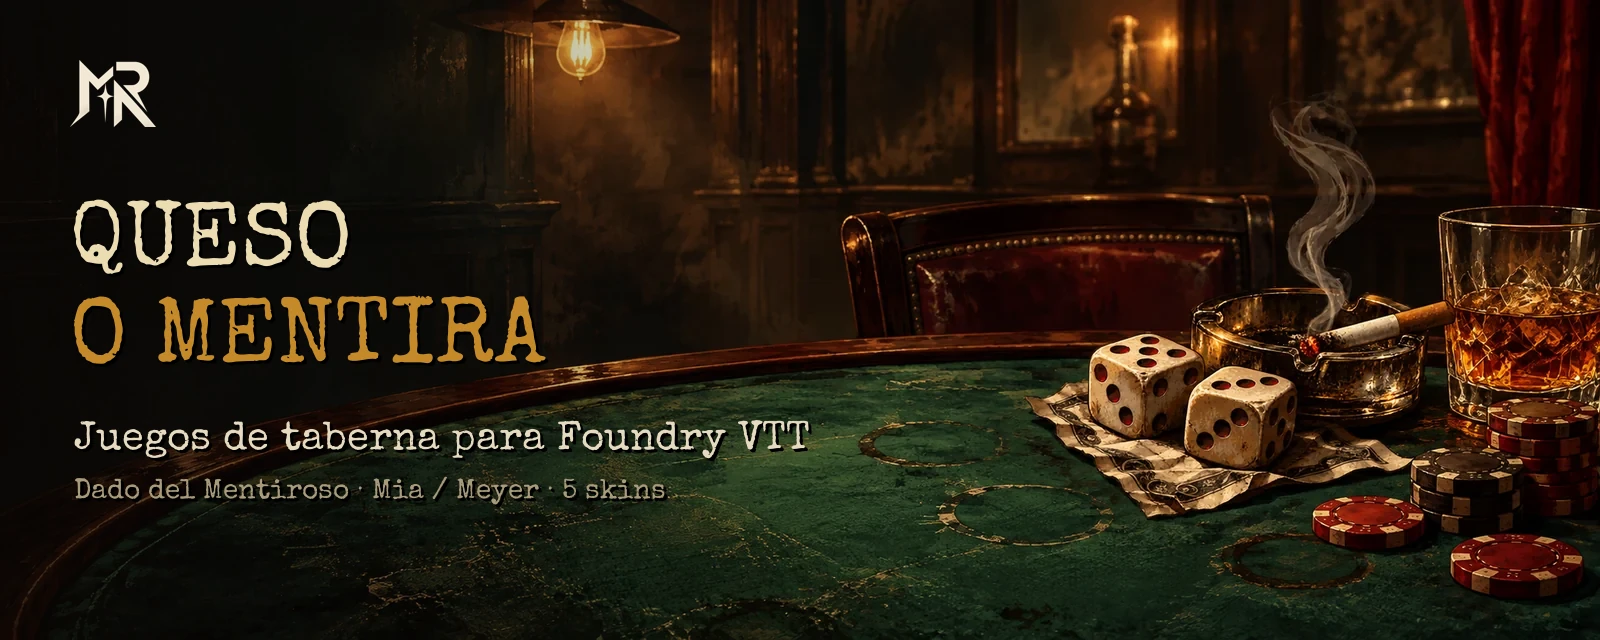
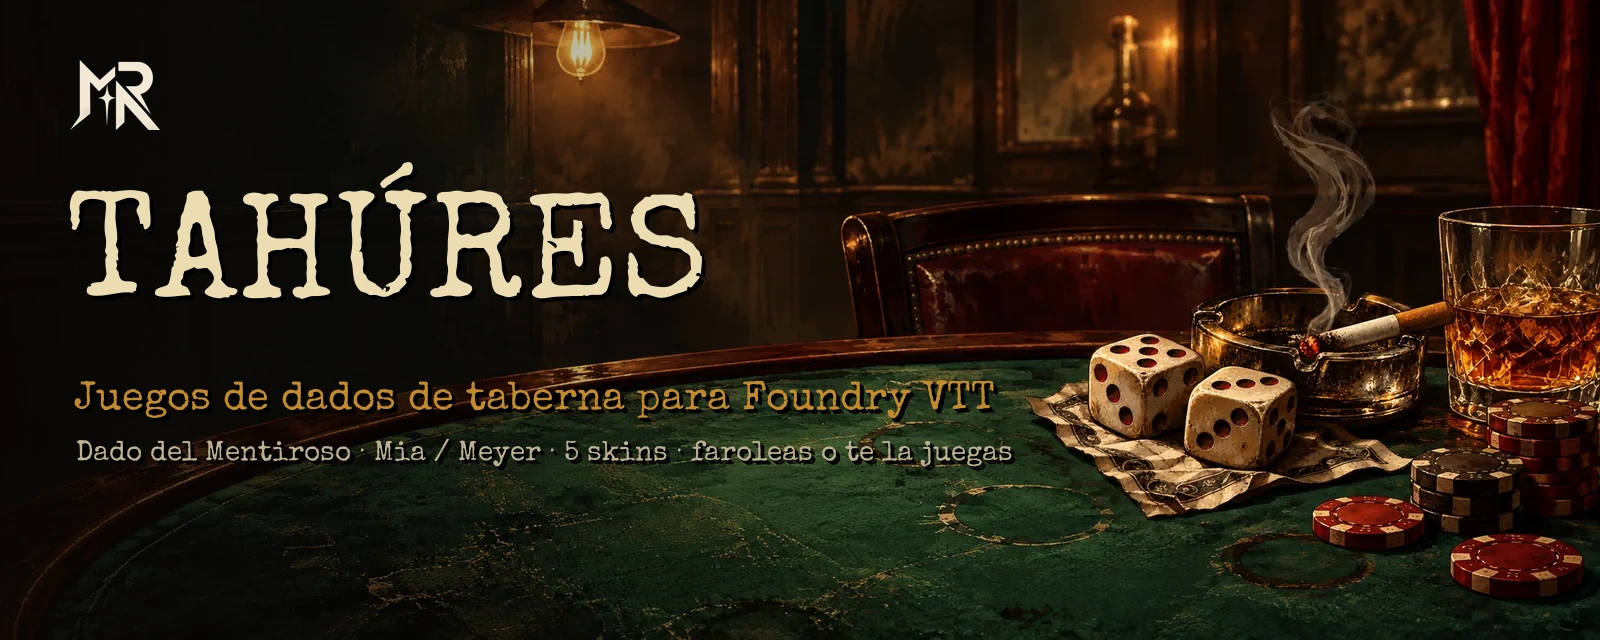
Renombrado a MR- Tahúres (id mr-tahures)
El módulo pasa de «Queso o Mentira» a «Tahúres»: id, repositorio, textos, banner,
web de Pages, icono de la barra de controles y títulos de ventana.

Changed region(s): [[0.0312, 0.25, 0.6562, 0.7812], [0.0625, 0.0938, 0.0938, 0.2188]]

diff --git a/docs/index.html b/docs/index.html
@@ -3,11 +3,11 @@
 <head>
 <meta charset="utf-8">
 <meta name="viewport" content="width=device-width, initial-scale=1">
-<title>MR- Queso o Mentira</title>
+<title>MR- Tahúres</title>
 <meta name="description" content="Juegos de taberna para Foundry VTT: Dado del Mentiroso y Mia/Meyer, con cinco skins. Agnóstico de sistema.">
-<meta property="og:title" content="MR- Queso o Mentira">
+<meta property="og:title" content="MR- Tahúres">
 <meta property="og:description" content="Faroleas, dudas y te juegas el bote. Juegos de taberna para Foundry VTT.">
-<meta property="og:image" content="https://manuromera.github.io/mr-queso-o-mentira/img/banner.webp">
+<meta property="og:image" content="https://manuromera.github.io/mr-tahures/img/banner.webp">
 <style>
   :root { --bg:#120d0a; --panel:#1c140f; --line:#4d3a2a; --fg:#e6dac0; --dim:#a99b7c; --accent:#c58a2b; --accent2:#e0ac4e; }
   * { box-sizing: border-box; }
@@ -36,17 +36,17 @@
 </style>
 </head>
 <body>
-<header><img class="banner" src="img/banner.webp" alt="MR- Queso o Mentira"></header>
+<header><img class="banner" src="img/banner.webp" alt="MR- Tahúres"></header>
 <main>
   <p class="lead">Faroleas, dudas y te juegas el bote.<br>Juegos de taberna para tu mesa de Foundry, vestidos de la ambientación que toque.</p>
   <div class="cta">
-    <a class="btn" href="https://github.com/ManuRomera/mr-queso-o-mentira/releases/latest">Descargar</a>
-    <a class="btn alt" href="https://github.com/ManuRomera/mr-queso-o-mentira">Código en GitHub</a>
+    <a class="btn" href="https://github.com/ManuRomera/mr-tahures/releases/latest">Descargar</a>
+    <a class="btn alt" href="https://github.com/ManuRomera/mr-tahures">Código en GitHub</a>
   </div>
 
   <h2>Instalar</h2>
   <p>En Foundry: <b>Add-on Modules → Install Module → Manifest URL</b>.</p>
-  <pre>https://github.com/ManuRomera/mr-queso-o-mentira/releases/latest/download/module.json</pre>
+  <pre>https://github.com/ManuRomera/mr-tahures/releases/latest/download/module.json</pre>
 
   <h2>Los juegos</h2>
   <div class="cards">

diff --git a/scripts/mr-tahures.js b/scripts/mr-tahures.js
@@ -1,6 +1,6 @@
 /****************************************************
- * Queso o Mentira – v2.2.0 (juegos de taberna)
- * • Registro de juegos (core.js + games/*): Dado del Mentiroso y Mia/Meyer. API: game.modules.get("mr-queso-o-mentira").api
+ * MR- Tahúres – v3.0.0 (juegos de dados de taberna)
+ * • Registro de juegos (core.js + games/*): Dado del Mentiroso y Mia/Meyer. API: game.modules.get("mr-tahures").api
  * • v2.1: calzar/palifico clásicos, IA con personalidad, bote con dinero.
  * • v2.0: ApplicationV2, manos privadas por socket dirigido, revelación en el chat, V13/V14.
  ****************************************************/
@@ -145,7 +145,7 @@ class GMDiceTrayApp extends HandlebarsApplicationMixin(ApplicationV2) {
 // 2. MÓDULO
 // ===================================================================================
 
-class QuesoMentira {
+class Tahures {
   static openApps = {};
 
   static initialize() {
@@ -261,4 +261,4 @@ class QuesoMentira {
   }
 }
 
-Hooks.once("setup", () => QuesoMentira.initialize());
+Hooks.once("setup", () => Tahures.initialize());

diff --git a/scripts/core.js b/scripts/core.js
@@ -2,7 +2,7 @@
 // Un juego es un objeto registrado con registerGame() (ver games/*.js y docs/JUEGOS.md).
 import * as Engine from "./engine/liars-dice.js";
 
-export const ID = "mr-queso-o-mentira";
+export const ID = "mr-tahures";
 export const SOCKET = `module.${ID}`;
 export const DEFAULT_GAME = "liars-dice";
 export const OWNER = () => CONST.DOCUMENT_OWNERSHIP_LEVELS.OWNER;
@@ -29,7 +29,7 @@ export const GAMES = new Map();
 export const registerGame = def => { GAMES.set(def.id, def); return def; };
 export const gameOf = S => GAMES.get(S?.game ?? DEFAULT_GAME);
 
-/** Puente con las ventanas (lo rellena mr-queso-o-mentira.js). */
+/** Puente con las ventanas (lo rellena mr-tahures.js). */
 export const bridge = { refresh() {}, openGMTray() {}, openTray() {} };
 
 /** Lo que ESTE cliente puede ver: { own: {actorId: dados}, all: {actorId: dados} | null } */

diff --git a/styles/mr-tahures.css b/styles/mr-tahures.css
@@ -1,4 +1,4 @@
-/* Queso o Mentira · diseño por skins.
+/* MR- Tahúres · diseño por skins.
    Cada skin es un bloque de variables sobre body[data-qm-skin]; el resto del archivo solo usa variables.
    Para una skin nueva: otro bloque de variables (y su carpeta de arte en assets/skins/<id>/). */
 

diff --git a/docs/arte/gen_skins_css.py b/docs/arte/gen_skins_css.py
@@ -3,7 +3,7 @@
 
 Ejecutar:  python3 docs/arte/gen_skins_css.py
 Para una skin nueva: carpeta assets/skins/<id>/ con la estructura del encargo (docs/arte/LEEME.md),
-una entrada en SKINS de aquí y otra de colores en styles/mr-queso-o-mentira.css.
+una entrada en SKINS de aquí y otra de colores en styles/mr-tahures.css.
 Los parches de arte que sustituyen archivos con el mismo nombre NO requieren regenerar nada.
 """
 from pathlib import Path

diff --git a/docs/arte/generar.py b/docs/arte/generar.py
@@ -1,5 +1,5 @@
 #!/usr/bin/env python3
-"""Fuente única del encargo de arte de «Queso o Mentira», por skins.
+"""Fuente única del encargo de arte de «Tahúres», por skins.
 
 Ejecutar:  python3 docs/arte/generar.py
 Escribe, para cada skin, en docs/arte/<skin>/:

diff --git a/docs/PLAN.md b/docs/PLAN.md
@@ -1,4 +1,4 @@
-# Queso o Mentira — Plan de mejora
+# Tahúres — Plan de mejora
 
 Estado de partida (oct 2026): la copia local es **v1.6.1** (con jugadores «tramposos» y botón de vista GM); GitHub sigue en **v1.3.1**; `module.json` dice **0.7.0**. Un solo script de ~820 líneas, ventanas V1 (`Application`/`FormApplication`), compat declarada V11–V12.
 
@@ -12,7 +12,7 @@ Objetivo: que lo que hay sea correcto, seguro y mantenible antes de añadir nada
 
 1. **Motor de reglas puro** (`scripts/engine/liars-dice.js`, sin dependencias de Foundry): recuento con comodines, validación de apuestas, resolución de «¡Mentira!» y «Calzar», pérdida de dados/eliminación, siguiente turno, probabilidad binomial y decisión de las tres IA.
 2. **Tests** con `node --test` (`tests/engine.test.mjs`), sin dependencias.
-3. **El módulo usa el motor**: `queso-mentira.js` deja de tener la lógica duplicada.
+3. **El módulo usa el motor**: `mr-tahures.js` deja de tener la lógica duplicada.
 4. **Validación en el GM** de cada acción de jugador: solo actúa quien es dueño del actor al que le toca, y solo el GM activo procesa (hoy, con dos GM conectados, todo se ejecuta dos veces; y cualquier cliente puede enviar `callerIx` arbitrario).
 5. **Higiene del repo**: `module.json` a la versión real, `LICENSE` (el README lo cita y no existe), `.gitignore`, `package.json` mínimo, quitar el `.zip` del repo (lo genera la release), README sin el enlace roto del manifiesto.
 6. **Sincronizar con GitHub**: la copia local manda; subir tras tu visto bueno.
@@ -47,11 +47,11 @@ Hecho y probado en Foundry 13.351: calzar y palifico clásicos como opción (sel
 
 ## Fase 4 — Plataforma multijuego (hecha en lo esencial, v2.2.0)
 
-Hecho y probado en Foundry 13.351: registro de juegos (`core.js`, `games/*`), selector de juego con opciones propias, API `game.modules.get("queso-mentira").api`, guía en `docs/JUEGOS.md`. **Pendiente:** hooks públicos (`queso-mentira.roundEnd`…), temas de mesa, registro desde módulos de terceros, macro de apertura.
+Hecho y probado en Foundry 13.351: registro de juegos (`core.js`, `games/*`), selector de juego con opciones propias, API `game.modules.get("mr-tahures").api`, guía en `docs/JUEGOS.md`. **Pendiente:** hooks públicos (`mr-tahures.roundEnd`…), temas de mesa, registro desde módulos de terceros, macro de apertura.
 
 
-- Registro de juegos (`QuesoMentira.registerGame({id, name, engine, ui})`) para que cada juego sea un motor puro + una vista.
-- API pública y hooks (`queso-mentira.roundEnd`, `queso-mentira.gameEnd`, `queso-mentira.bet`) para que los sistemas de Manu enganchen recompensas.
+- Registro de juegos (`Tahures.registerGame({id, name, engine, ui})`) para que cada juego sea un motor puro + una vista.
+- API pública y hooks (`mr-tahures.roundEnd`, `mr-tahures.gameEnd`, `mr-tahures.bet`) para que los sistemas de Manu enganchen recompensas.
 - Temas de mesa: pulp-militar (actual), taberna medieval, pirata, noir, cantina sci-fi.
 - Selector de juego en la barra de escenas; macro de apertura.
 
@@ -93,7 +93,7 @@ Todos reutilizan: sentarse a la mesa, turnos, bote, chat de revelación, sonidos
 
 ## Decisiones abiertas
 
-- **[D1]** Renombrar a **MR- Queso o Mentira** (id `mr-queso-o-mentira`)? Rompe instalaciones existentes. Recomendado: mantener el id `queso-mentira`, cambiar solo el título a «MR- Queso o Mentira».
+- **[D1] Resuelta:** el módulo se llama **MR- Tahúres** (id `mr-tahures`, antes «Queso o Mentira»).
 - **[D2]** Reglas por defecto: ¿mantener las de la casa actuales o pasar a las clásicas? Recomendado: mantener las actuales por defecto y ofrecer el selector (Fase 3).
 - **[D3]** ¿Un módulo con todos los juegos o módulos separados por juego? Recomendado: uno solo con registro de juegos.
 - **[D4]** Fecha tope de compat: V13 mínimo, V14 verificado. ¿Se abandona V11/V12?
@@ -102,5 +102,5 @@ Todos reutilizan: sentarse a la mesa, turnos, bote, chat de revelación, sonidos
 
 ## Estado visual (2026-10-17, v2.4.0)
 
-Cinco skins integradas con arte propio (`assets/skins/<skin>/`, 126 imágenes): garito, taberna, pirata, oeste, neón. CSS en `styles/queso-mentira.css` (variables por skin) y `styles/skins.css` (generado por `docs/arte/gen_skins_css.py`). Sin arte, cada skin cae al diseño CSS puro.
+Cinco skins integradas con arte propio (`assets/skins/<skin>/`, 126 imágenes): garito, taberna, pirata, oeste, neón. CSS en `styles/mr-tahures.css` (variables por skin) y `styles/skins.css` (generado por `docs/arte/gen_skins_css.py`). Sin arte, cada skin cae al diseño CSS puro.
 **Pendiente de arte:** parches A (3 texturas) y B (32 dados) en `docs/arte/parches/`; al llegar basta con sustituir los archivos del mismo nombre. **Hecho (v2.5.0):** 17 iconos SVG de un color (`assets/icons/`, generador `docs/arte/gen_iconos.py`, tintables con `currentColor`): 6 acciones, 3 jugadores y 8 emblemas de juego (los de Fase 5 ya están listos). **Pendiente de diseño:** dado oculto de rivales, banner del README, escena de mesa como acción del GM, tipografías propias.

diff --git a/README.md b/README.md
@@ -1,11 +1,11 @@
 <p align="center">
-  <img src="docs/img/banner.webp" alt="MR- Queso o Mentira — juegos de taberna para Foundry VTT" width="100%">
+  <img src="docs/img/banner.webp" alt="MR- Tahúres — juegos de taberna para Foundry VTT" width="100%">
 </p>
 
 <p align="center">
-  <a href="https://github.com/ManuRomera/mr-queso-o-mentira/releases/latest"><img alt="Latest release" src="https://img.shields.io/github/v/release/ManuRomera/mr-queso-o-mentira?style=for-the-badge&color=c58a2b&label=release"></a>
+  <a href="https://github.com/ManuRomera/mr-tahures/releases/latest"><img alt="Latest release" src="https://img.shields.io/github/v/release/ManuRomera/mr-tahures?style=for-the-badge&color=c58a2b&label=release"></a>
   <img alt="Foundry VTT v13" src="https://img.shields.io/badge/Foundry%20VTT-v13-57d8c8?style=for-the-badge">
-  <a href="https://github.com/ManuRomera/mr-queso-o-mentira/releases"><img alt="Downloads" src="https://raw.githubusercontent.com/ManuRomera/ManuRomera/main/badges/descargas/mr-queso-o-mentira.svg"></a>
+  <a href="https://github.com/ManuRomera/mr-tahures/releases"><img alt="Downloads" src="https://raw.githubusercontent.com/ManuRomera/ManuRomera/main/badges/descargas/mr-tahures.svg"></a>
   <img alt="System agnostic" src="https://img.shields.io/badge/system-agnostic-2b3245?style=for-the-badge">
   <a href="LICENSE"><img alt="MIT license" src="https://img.shields.io/badge/license-MIT-2b3245?style=for-the-badge"></a>
 </p>
@@ -21,10 +21,10 @@
 En Foundry: **Add-on Modules → Install Module → Manifest URL**, pega:
 
 ```
-https://github.com/ManuRomera/mr-queso-o-mentira/releases/latest/download/module.json
+https://github.com/ManuRomera/mr-tahures/releases/latest/download/module.json
 ```
 
-Activa **MR- Queso o Mentira** en tu mundo y abre la mesa desde el botón del queso en los **Controles de token** (solo el Director de Juego). Las actualizaciones llegan desde el botón *Update* de Foundry.
+Activa **MR- Tahúres** en tu mundo y abre la mesa desde el botón de los dados en los **Controles de token** (solo el Director de Juego). Las actualizaciones llegan desde el botón *Update* de Foundry.
 
 <p align="center">
   <img src="docs/img/hero.webp" alt="Partida de Dado del Mentiroso en El Garito: bandeja del Director con todas las manos, chat con la revelación y fichas de casino" width="100%">
@@ -70,7 +70,7 @@ El mismo juego, vestido para cada mesa. Se elige en el propio formulario de part
 
 ## 🕹 Cómo se juega
 
-1. **GM:** con los actores de la escena en tokens, pulsa el botón del queso (Controles de token).
+1. **GM:** con los actores de la escena en tokens, pulsa el botón de los dados (Controles de token).
 2. Elige **juego**, **skin** y el **modo** de cada actor: Humano, Director de Juego (tú) o una de las IAs. Ajusta dados o vidas iniciales, reglas y la entrada del bote.
 3. Se sortea quién empieza y cada humano recibe su **bandeja** con su mano; el GM ve todas.
 4. En tu turno: **Subir / ¡Mentira! / Calzar** en el Dado del Mentiroso, o **Anunciar / ¡Dudo! / Acepto y tiro** en Mia.
@@ -78,7 +78,7 @@ El mismo juego, vestido para cada mesa. Se elige en el propio formulario de part
 ## 🧰 API
 
 ```js
-const api = game.modules.get("mr-queso-o-mentira").api;
+const api = game.modules.get("mr-tahures").api;
 api.GAMES;            // Map con los juegos registrados
 api.registerGame(def); // registra un juego (ver docs/JUEGOS.md)
 ```
@@ -97,12 +97,12 @@ MIT © 2026 Manuel Romera Chinchilla.
 
 ## 🇬🇧 English
 
-**MR- Queso o Mentira** brings tavern bluffing games to Foundry VTT, dressed in the setting your table needs. System agnostic, no dependencies, Foundry **v13**.
+**MR- Tahúres** brings tavern bluffing games to Foundry VTT, dressed in the setting your table needs. System agnostic, no dependencies, Foundry **v13**.
 
 **Install:** *Add-on Modules → Install Module → Manifest URL*:
 
 ```
-https://github.com/ManuRomera/mr-queso-o-mentira/releases/latest/download/module.json
+https://github.com/ManuRomera/mr-tahures/releases/latest/download/module.json
 ```
 
 ### Games

diff --git a/docs/JUEGOS.md b/docs/JUEGOS.md
@@ -8,7 +8,7 @@ Cada juego es un **motor puro** (sin Foundry, con tests) más un **objeto regist
 2. `tests/<juego>.test.mjs`: `node --test tests/`.
 3. `scripts/games/<juego>.js`: llama a `core.registerGame({...})`.
 4. `templates/<juego>-tray.html` y `<juego>-gm-tray.html`: bandeja del jugador y del GM (un solo elemento raíz).
-5. Textos en `lang/es.json` y `lang/en.json`, y una línea `import "./games/<juego>.js"` en `scripts/mr-queso-o-mentira.js`.
+5. Textos en `lang/es.json` y `lang/en.json`, y una línea `import "./games/<juego>.js"` en `scripts/mr-tahures.js`.
 6. Si tiene opciones propias, una sección `<div data-game="<id>">` en `templates/select-actors.html` (solo se ve con ese juego elegido).
 
 ## Interfaz de `registerGame`
@@ -27,14 +27,14 @@ Cada juego es un **motor puro** (sin Foundry, con tests) más un **objeto regist
 | `onTrayAction(action, ix, {gm})` | **Cliente**: botón pulsado en una bandeja; envía `PLAYER_ACTION` por socket (o actúa directo si es el GM) |
 | `trayContext(S, me, hands)` / `gmContext(S)` | Datos extra para las plantillas |
 
-Las acciones de botón disponibles son `raise`, `lie`, `spoton`, `doubt`, `accept` y `announce` (lista `ACTIONS` en `mr-queso-o-mentira.js`; añade ahí las nuevas).
+Las acciones de botón disponibles son `raise`, `lie`, `spoton`, `doubt`, `accept` y `announce` (lista `ACTIONS` en `mr-tahures.js`; añade ahí las nuevas).
 
 ## Reglas de oro
 
 - **La sesión pública no lleva información secreta.** Los dados viven en `jugadores[].dados` solo en el GM (`core.loadFull/saveFull`); cada dueño recibe lo suyo con `core.sendHands`.
 - Las vidas/dados son `dadosRestantes`; así `core.resolveRound`, el bote, la eliminación y el botón −1 del chat funcionan sin código extra.
 - Toda acción de jugador pasa por `Engine.canAct` en el GM; no te saltes esa validación.
-- API: `game.modules.get("mr-queso-o-mentira").api` expone `registerGame`, `GAMES` y `core` tras el hook `setup`. Registrar juegos desde otro módulo aún **no está soportado de forma estable** (sus ajustes tendrían que registrarse en `setup`, antes de que el selector los lea); de momento los juegos se añaden dentro de este módulo.
+- API: `game.modules.get("mr-tahures").api` expone `registerGame`, `GAMES` y `core` tras el hook `setup`. Registrar juegos desde otro módulo aún **no está soportado de forma estable** (sus ajustes tendrían que registrarse en `setup`, antes de que el selector los lea); de momento los juegos se añaden dentro de este módulo.
 
 ## Siguientes juegos previstos
 

diff --git a/docs/arte/parches/PROMPT-B.md b/docs/arte/parches/PROMPT-B.md
@@ -4,7 +4,7 @@
 
 ---
 
-You already delivered the five skin packs of **Queso o Mentira** and they pass the automatic check. Comparing the five skins side by side I found a design problem: **the dice of `garito`, `taberna`, `pirata` and `oeste` are practically the same object** — same tan cube, nearly the same silhouette (within 1-5 %), mean body colour within ±5/255 — and only the pip colour changes. Each skin must have its own physical die. (`neon` is fine; do not touch it.) Speak to me in Spanish; write image prompts in English.
+You already delivered the five skin packs of **Tahúres** and they pass the automatic check. Comparing the five skins side by side I found a design problem: **the dice of `garito`, `taberna`, `pirata` and `oeste` are practically the same object** — same tan cube, nearly the same silhouette (within 1-5 %), mean body colour within ±5/255 — and only the pip colour changes. Each skin must have its own physical die. (`neon` is fine; do not touch it.) Speak to me in Spanish; write image prompts in English.
 
 ## What to redo
 The 8 dice files of each of these four skins = **32 files**, same paths, 512×512 PNG RGBA, transparent, same margins as the original spec, `dice/die-1.png … die-6.png`, `die-1-wild.png`, `die-hidden.png`. Keep the same camera (almost straight from above, top face large, slight 3/4 bevel), upper-left light, no shadow, no text, very large high-contrast pips readable at 24 px, standard pip layout, and the same rule as before: build ONE new blank cube per skin and composite the same pip sprite for all faces so the set is pixel-consistent. Keep the wild and hidden concepts of each skin, adapted to the new body.

diff --git a/docs/arte/parches/PROMPT-A.md b/docs/arte/parches/PROMPT-A.md
@@ -4,7 +4,7 @@
 
 ---
 
-You already delivered the five skin packs of **Queso o Mentira** and all five passed the automatic check. I then reviewed every image by eye (tiling them 2×2, comparing the five skins side by side) and found **three real defects in three texture files**. Redo ONLY these three files. Keep exactly the same path, pixel size (1024×1024), format (WebP, quality 86, method 6, RGB with no alpha) and seamless tiling. Do not touch anything else. Speak to me in Spanish; write image prompts in English.
+You already delivered the five skin packs of **Tahúres** and all five passed the automatic check. I then reviewed every image by eye (tiling them 2×2, comparing the five skins side by side) and found **three real defects in three texture files**. Redo ONLY these three files. Keep exactly the same path, pixel size (1024×1024), format (WebP, quality 86, method 6, RGB with no alpha) and seamless tiling. Do not touch anything else. Speak to me in Spanish; write image prompts in English.
 
 ## Defect 1 — `assets/skins/oeste/ui/panel.webp`
 **What is wrong:** straight fold/crease lines cross the texture at regular positions, so when tiled they draw a visible grid of squares.

diff --git a/CHANGELOG.md b/CHANGELOG.md
@@ -2,7 +2,7 @@
 
 ## 3.0.0 — 2026-10-17
 
-Primera versión pública con la marca MR: el antiguo «Queso o Mentira» reescrito de arriba abajo. Cambia el id del módulo (`queso-mentira` → `mr-queso-o-mentira`); no hay migración, la partida en curso de versiones anteriores no se conserva.
+Primera versión pública con la marca MR: el antiguo «Queso o Mentira» reescrito y rebautizado de arriba abajo. Cambia el id del módulo (`queso-mentira` → `mr-tahures`) y el nombre; no hay migración, la partida en curso de versiones anteriores no se conserva.
 
 - 🎲 **Registro de juegos** y dos juegos: Dado del Mentiroso y **Mia / Meyer** (nuevo).
 - 🎭 **Cinco skins** con arte propio: El Garito, La Taberna, El Camarote, El Saloon y La Cantina Neón; selector en el formulario y en los ajustes.
